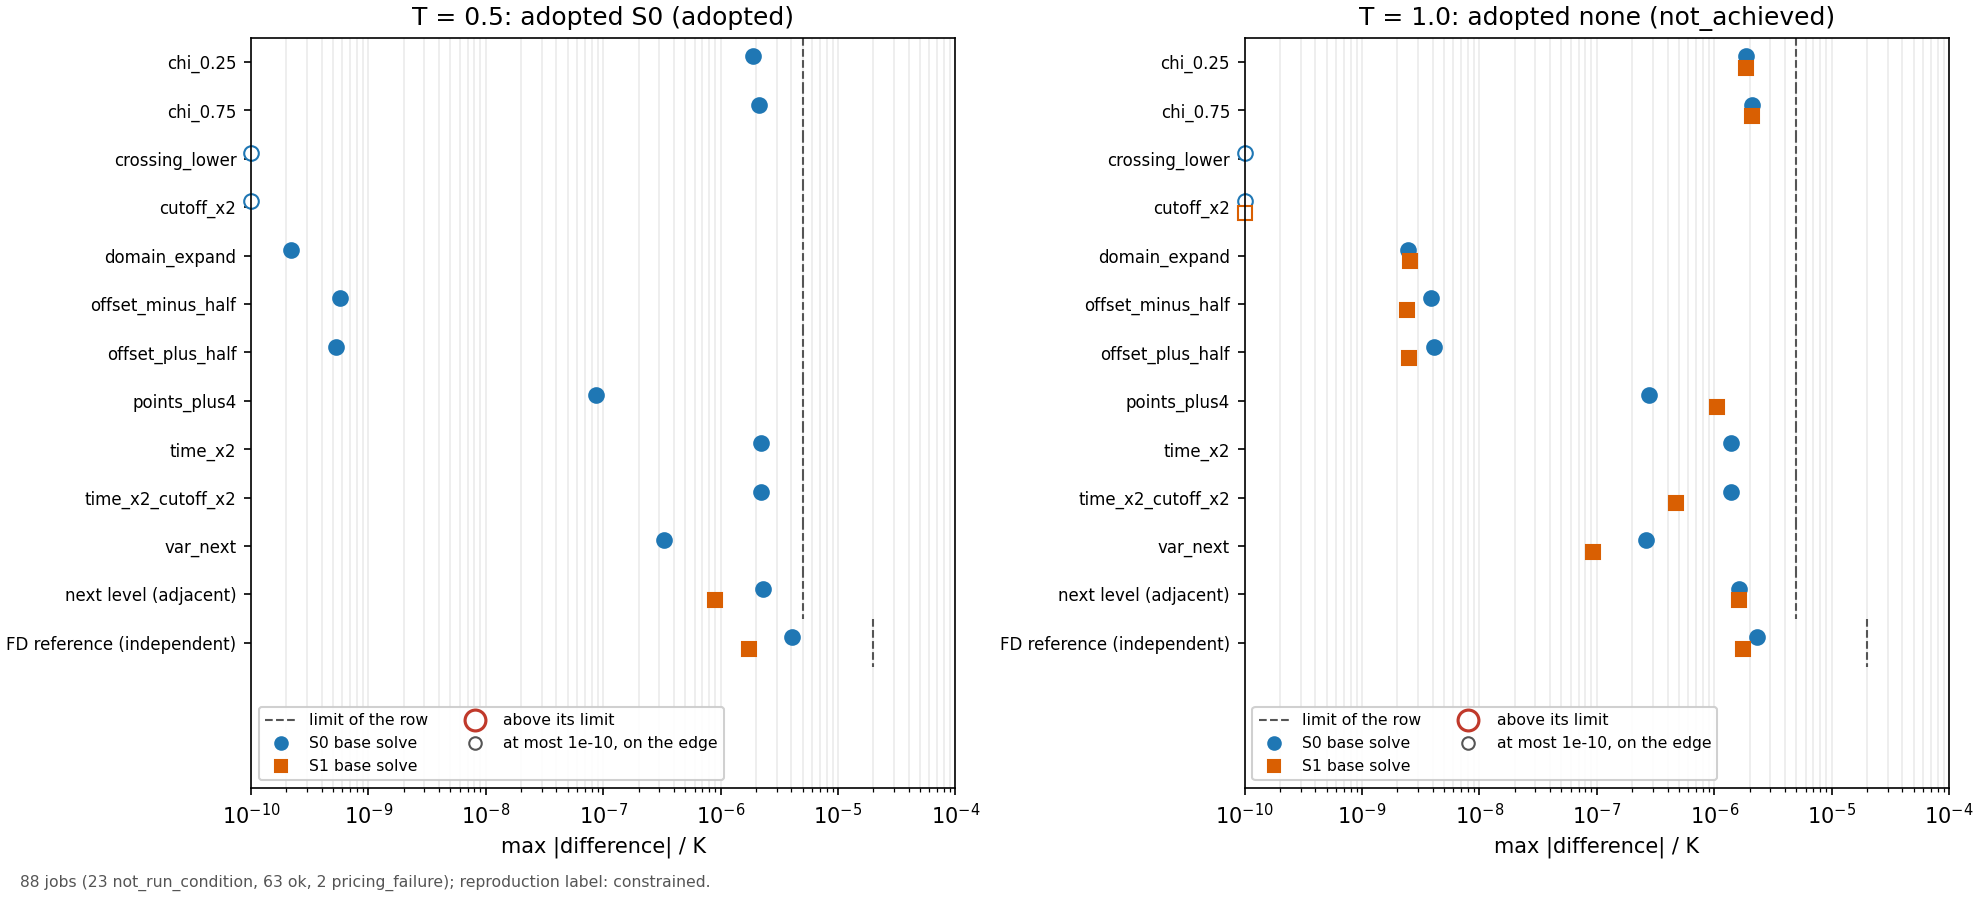
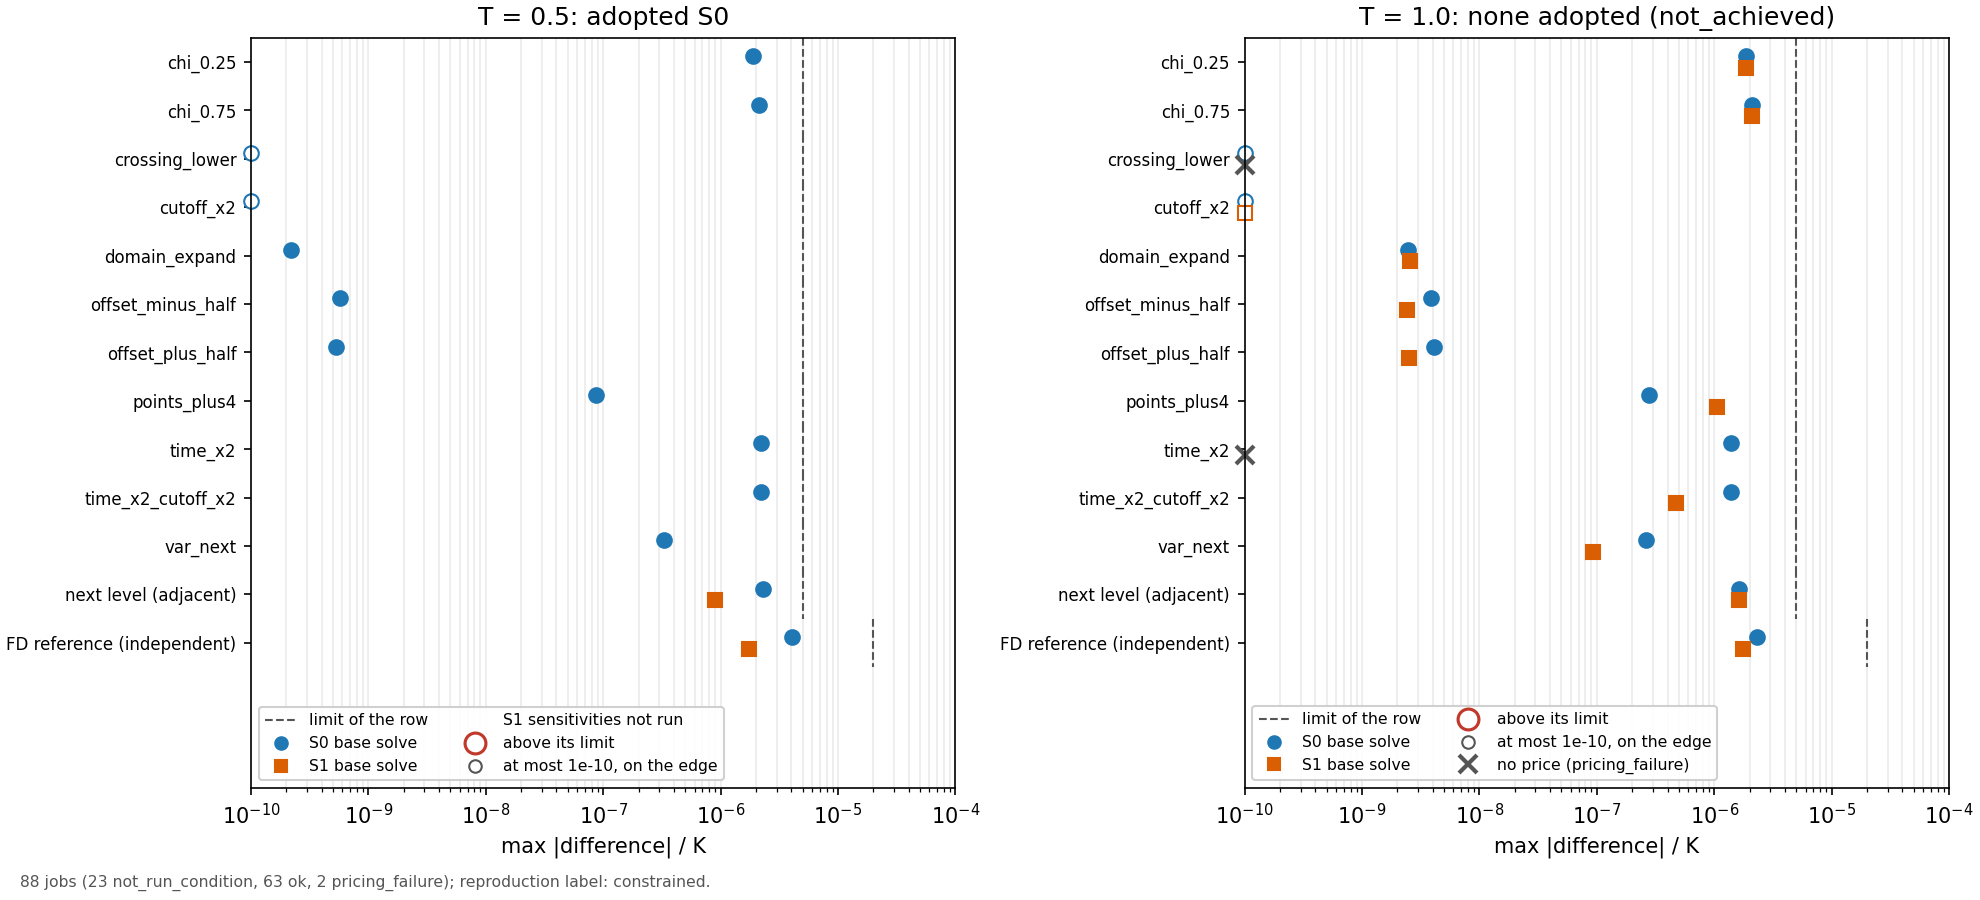
Correct the DSINC README numbers and label the figures
README: the spectral Delta width at S/K=.9 is 4.1e-7 (4.145e-7 from the
recorded Deltas, not 4.2e-7). Every printed number was compared again with
the digits it is printed with against results.json, the arrays, the
protocol, file sizes and test collections: 677 values, 0 mismatches.

- The job wall sum (781.8 s, accounting.wall_seconds) and the runner's
  elapsed time (783 s) are labelled wherever either appears; ROADMAP, plan
  and design carry the job wall sum.
- The wall/estimate ratio 0.37-0.87 covers the 63 ok jobs; the two failed
  jobs (0.28, 0.31) are given separately.
- T=1 is described from independent_validated (price false, boundary
  pass); the reproduction_label rule is the one in gates.reproduction_label.
- Which jobs return boundaries is stated: the ok spectral jobs and the FD
  boundary jobs, not the independent FD references; the two failed jobs
  keep only the boundary up to the failing step.
- The FD reference axes are listed as converged or below_resolution.
- S1's multiple crossings (3,371 and 6,491 nodes against S0's 58) are
  recorded next to the two S1 failures, which lie in the same low-variance
  region.
- One term (job) throughout; the subnormal-only timing is 5.4 s on
  re-measurement (was 5.4-5.6); the test count is 137.

plot.py: the boundary curves are labelled with the variance node that is
drawn (v = 0.0103, 0.0389, 0.1564); a sensitivity that ran without a price
is a grey cross at the left edge named with its job status, while
[…]

diff --git a/johnhull/research/DSINC/plot.py b/johnhull/research/DSINC/plot.py
@@ -7,7 +7,9 @@ Only ``results.json`` and the arrays it points to are read; nothing is solved or
 * ``exercise_boundary.png``: the exercise boundary of the judged spectral level against the FD
   bracket of the dedicated fine-time run, with the masked nodes and the failure counts.
 * ``refinement_stability.png``: the difference of every sensitivity, of the next level and of the
-  FD reference from a level's base solve, with the limits of the gates.
+  FD reference from a level's base solve, with the limits of the gates.  A check that ran but gave
+  no price is a grey cross on the left edge, named with its job status; sensitivities that were
+  not run have no marker and are named in the legend only.
 
 Usage: ``python plot.py --results RUN/results.json --output DIR``.
 """
@@ -23,11 +25,31 @@ import numpy as np
 from hullkit._dsinc_types import BOUNDARY_STATUS, FAILURE_CODES
 from matplotlib.backends.backend_agg import FigureCanvasAgg
 from matplotlib.figure import Figure
+from matplotlib.ticker import FuncFormatter, LogLocator, NullLocator
 
 BLUE, ORANGE, GREEN, RED, GRAY = "#1f77b4", "#d95f02", "#1b9e77", "#c0392b", "#555555"
 EXPIRY_COLORS = (BLUE, ORANGE)
-VARIANCE_COLORS = ((0.01, GREEN), (0.04, BLUE), (0.16, ORANGE))  # variances drawn in the boundary
+# Variances the boundary is drawn at: the grid node nearest to each value (the label gives the node).
+VARIANCE_COLORS = ((0.01, GREEN), (0.04, BLUE), (0.16, ORANGE))
 DISPLAY_FLOOR = 1e-10  # smaller differences are drawn on the left edge of the stability figure
+LOG_TICKS = (1.0, 2.0, 3.0, 5.0)  # labelled ticks of a log axis, times each power of ten
+NO_PRICE = {"color": GRAY, "ms": 9, "mew": 2}  # the grey cross of a check that gave no price
+
+
+def _tick_text(value: float, _position: int | None = None) -> str:
+    """A tick value without zero padding of the exponent: 0.5, 20, 2e-6."""
+    text = f"{value:g}"
+    if "e" in text:
+        mantissa, exponent = text.split("e")
+        text = f"{mantissa}e{int(exponent)}"
+    return text
+
+
+def _label_log_axis(axis) -> None:
+    """Label a log axis at 1, 2, 3 and 5 times each power of ten, so that values can be read off."""
+    axis.set_major_locator(LogLocator(base=10.0, subs=LOG_TICKS))
+    axis.set_minor_locator(NullLocator())
+    axis.set_major_formatter(FuncFormatter(_tick_text))
 
 
 def _new_figure(width: float, height: float) -> Figure:
@@ -126,7 +148,7 @@ def _price_error_cost(verdicts: dict, limits: dict) -> Figure:
         ax.text(
             0.005,
             limits[key],
-            f"{label} {limits[key]:g}",
+            f"{label} {_tick_text(limits[key])}",
             transform=ax.get_yaxis_transform(),
             ha="left",
             va="bottom",
@@ -135,10 +157,12 @@ def _price_error_cost(verdicts: dict, limits: dict) -> Figure:
         )
     ax.set_xscale("log")
     ax.set_yscale("log")
+    _label_log_axis(ax.xaxis)
+    _label_log_axis(ax.yaxis)
     ax.set_xlabel("solver time, setup + solve [s]")
     ax.set_ylabel("max |price - FD reference| / K   (European, American, EEP)")
     ax.set_title("Price error against cost at S/K = 0.9, 1.0, 1.1")
-    ax.grid(True, which="both", alpha=0.25)
+    ax.grid(True, which="major", alpha=0.25)
     if ax.get_legend_handles_labels()[0]:  # nothing is drawn when no error could be measured
         ax.legend(fontsize=8, loc="best")
     _footnote(figure, verdicts)
@@ -199,10 +223,12 @@ def _boundary_panel(
     multiple_label = "multiple crossings (topmost kept)"
     for v, color in VARIANCE_COLORS:
         column = int(np.argmin(np.abs(spectral_z - math.log(v))))
+        node = math.exp(float(spectral_z[column]))  # the grid node that is drawn, not v itself
         mine = star[:, column]
         fd_low = _edge_at_variance(edge, fd_z, float(spectral_z[column]))
         ax.fill_between(t_fd, np.exp(fd_low), np.exp(fd_low + dx), color=color, alpha=0.4, lw=0)
-        ax.plot(t_spec, np.exp(mine), color=color, lw=1.4, label=f"spectral, v = {v:g}")
+        label = f"spectral, v ≈ {node:.4f} (node nearest {v:g})"
+        ax.plot(t_spec, np.exp(mine), color=color, lw=1.4, label=label)
         fd_here, own = fd_low[common * n_fd // n_spec], mine[common]
         masked = (
             ~np.isfinite(fd_here)
@@ -301,6 +327,9 @@ def _refinement_stability(verdicts: dict, limits: dict) -> Figure:
         if value is not None
     ]
     right = max([1e-4, *(3 * value for value in values)])
+    statuses = {  # why a job that ran gave no price, by job id
+        entry["job_id"]: entry["status"] for entry in verdicts["accounting"].get("not_ok", [])
+    }
     for ax, (expiry, selection) in zip(axes, expiries, strict=True):
         for position, (_, kind) in enumerate(rows):  # one dashed line over the rows of a limit
             ax.plot(
@@ -311,6 +340,7 @@ def _refinement_stability(verdicts: dict, limits: dict) -> Figure:
                 lw=1,
                 label="limit of the row" if position == 0 else None,
             )
+        failed: dict[str, None] = {}  # why a check has no price, in order of appearance
         for level, marker, color, shift in (("S0", "o", BLUE, -0.12), ("S1", "s", ORANGE, 0.12)):
             check = selection["checks"][level]
             found = (check["sensitivities"] or {}) | {
@@ -318,9 +348,16 @@ def _refinement_stability(verdicts: dict, limits: dict) -> Figure:
                 "FD reference (independent)": check["independent"],
             }
             ax.plot([], [], marker, color=color, label=f"{level} base solve")
+            if not check["sensitivities"]:  # not run: nothing is drawn, only the legend says so
+                ax.plot([], [], " ", label=f"{level} sensitivities not run")
             for position, (name, kind) in enumerate(rows):
-                value = found.get(name)
-                if value is None:
+                if name not in found:
+                    continue
+                value = found[name]
+                if value is None:  # it ran but gave no price: a grey cross on the left edge
+                    status = statuses.get(f"spectral-{level}-{name}-T{expiry}")
+                    failed[f"no price ({status})" if status else "no value"] = None
+                    ax.plot([DISPLAY_FLOOR], [position + shift], "x", clip_on=False, **NO_PRICE)
                     continue
                 x, y = max(value, DISPLAY_FLOOR), position + shift
                 ax.plot(
@@ -336,13 +373,17 @@ def _refinement_stability(verdicts: dict, limits: dict) -> Figure:
                     ax.plot([x], [y], "o", mfc="none", mec=RED, ms=13, mew=1.5, clip_on=False)
         ax.plot([], [], "o", mfc="none", mec=RED, ms=10, mew=1.5, label="above its limit")
         ax.plot([], [], "o", mfc="white", mec=GRAY, label=f"at most {DISPLAY_FLOOR:g}, on the edge")
+        for text in failed:
+            ax.plot([], [], "x", label=text, **NO_PRICE)
         ax.set_xscale("log")
         ax.set_xlim(DISPLAY_FLOOR, right)
         ax.set_ylim(len(rows) + 2.0, -0.5)  # the empty rows below hold the legend
         ax.set_yticks(range(len(rows)), [name for name, _ in rows], fontsize=8)
         ax.set_xlabel("max |difference| / K")
-        adopted = selection["adopted"] or "none"
-        ax.set_title(f"T = {expiry}: adopted {adopted} ({selection['status']})")
+        if selection["adopted"]:
+            ax.set_title(f"T = {expiry}: adopted {selection['adopted']}")
+        else:
+            ax.set_title(f"T = {expiry}: none adopted ({selection['status']})")
         ax.grid(True, axis="x", which="both", alpha=0.25)
         ax.legend(fontsize=7.5, loc="lower left", ncol=2, framealpha=0.92)
     _footnote(figure, verdicts)
@@ -383,6 +424,7 @@ SENSITIVITIES = (
     "crossing_lower", "time_x2", "time_x2_cutoff_x2", "var_next", "points_plus4", "cutoff_x2",
     "chi_0.25", "chi_0.75", "domain_expand", "offset_plus_half", "offset_minus_half",
 )  # fmt: skip
+FAILED_SENSITIVITIES = ("crossing_lower", "time_x2")  # the S1 variants without a price at T = 1
 COSTS = (("S0", 3.9e-6, 3.8, 1.2), ("S1", 4.4e-6, 11.1, 6.7), ("S2", 4.9e-6, 29.8, 22.4))  # fmt: skip
 X_GRIDS = (("base", 8.0e-5, 0.2, 0.5), ("x481", 2.5e-5, 0.6, 1.4), ("x961", 7.0e-6, 1.4, 3.0), ("x1921", 1.5e-6, 3.1, 5.6))  # fmt: skip
 
@@ -434,8 +476,9 @@ def synthetic_results(tmp: Path) -> Path:
     """Write a minimal main ``results.json`` and its arrays under ``tmp`` and return its path.
 
     The numbers are made up (a square-root boundary, a few differences and times): they exercise
-    the figure code, with masked nodes, multiple crossings, a failing sensitivity and a pending
-    level, and say nothing about a real run.
+    the figure code, with masked nodes, multiple crossings, a sensitivity above its limit, two S1
+    variants that gave no price and S1 sensitivities that were not run, and say nothing about a
+    real run.
     """
     tmp = Path(tmp)
     (tmp / "arrays").mkdir(parents=True, exist_ok=True)
@@ -445,6 +488,10 @@ def synthetic_results(tmp: Path) -> Path:
         sensitivities |= {"crossing_lower": 0.0, "chi_0.75": 3e-6 * scale * scale}
         adopted = "S0" if scale == 1 else None
         key = str(expiry)
+        s1_sensitivities = None  # the S1 variants run only where S0 does not pass
+        if scale == 2:
+            s1_sensitivities = {n: 2e-6 * (i % 3 + 0.5) for i, n in enumerate(SENSITIVITIES)}
+            s1_sensitivities |= dict.fromkeys(FAILED_SENSITIVITIES)
         s0 = {
             "adjacent": 1.6e-6 * scale,
             "independent": 3.9e-6 * scale,
@@ -457,13 +504,13 @@ def synthetic_results(tmp: Path) -> Path:
             "adjacent": 6.0e-7,
             "independent": 4.4e-6,
             "sensitivity": None,
-            "sensitivities": None,
+            "sensitivities": s1_sensitivities,
             "passed": False,
-            "pending": scale == 2,
+            "pending": scale == 1,
         }
         verdicts["selections"][key] = {
             "adopted": adopted,
-            "status": "adopted" if adopted else "not_achieved_budget",
+            "status": "adopted" if adopted else "not_achieved",
             "checks": {"S0": s0, "S1": s1},
         }
         verdicts["costs"][key] = {
@@ -487,7 +534,18 @@ def synthetic_results(tmp: Path) -> Path:
         }
         verdicts["boundary"][key] = _synthetic_boundary(tmp, expiry, 3 * (scale - 1))
     verdicts |= {
-        "accounting": {"jobs": 88, "status_counts": {"ok": 58, "not_run_condition": 30}},
+        "accounting": {
+            "jobs": 88,
+            "status_counts": {"ok": 58, "not_run_condition": 28, "pricing_failure": 2},
+            "not_ok": [
+                {
+                    "job_id": f"spectral-S1-{name}-T1.0",
+                    "reason": "made up",
+                    "status": "pricing_failure",
+                }
+                for name in FAILED_SENSITIVITIES
+            ],
+        },
         "reproduction_label": "synthetic",
     }
     results = {

diff --git a/johnhull/hullkit/tests/test_dsinc_runner.py b/johnhull/hullkit/tests/test_dsinc_runner.py
@@ -354,6 +354,46 @@ def test_plot_draws_three_figures_from_saved_results(tmp_path):
     assert all(p.stat().st_size > 10_000 for p in paths)
 
 
+def test_stability_figure_tells_a_failed_check_from_sensitivities_not_run(tmp_path):
+    plot = load(PLOT, "dsinc_plot_labels_tests")
+    saved = json.loads(plot.synthetic_results(tmp_path).read_text())
+    figure = plot._refinement_stability(saved["verdicts"], saved["thresholds"])
+    left, right = figure.axes
+    legends = [[text.get_text() for text in ax.get_legend().get_texts()] for ax in (left, right)]
+    assert [left.get_title(), right.get_title()] == [
+        "T = 0.5: adopted S0",
+        "T = 1.0: none adopted (not_achieved)",
+    ]
+    assert "S1 sensitivities not run" in legends[0]  # not run: named in the legend, no marker
+    assert not any("no price" in text for text in legends[0])
+    assert "no price (pricing_failure)" in legends[1]  # ran without a price: a grey cross
+    assert not any("not run" in text for text in legends[1])
+    rows = [text.get_text() for text in right.get_yticklabels()]
+    crosses = [line for line in right.lines if line.get_marker() == "x" and len(line.get_xdata())]
+    assert sorted(line.get_ydata()[0] for line in crosses) == pytest.approx(
+        sorted(rows.index(name) + 0.12 for name in ("crossing_lower", "time_x2"))  # the S1 rows
+    )
+
+
+def test_boundary_and_cost_figures_label_what_they_draw(tmp_path):
+    plot = load(PLOT, "dsinc_plot_axes_tests")
+    saved = json.loads(plot.synthetic_results(tmp_path).read_text())
+    verdicts = saved["verdicts"]
+    figure = plot._exercise_boundary(verdicts, saved["thresholds"]["boundary"], tmp_path)
+    with np.load(tmp_path / verdicts["boundary"]["0.5"]["arrays"]["spectral"]) as stored:
+        z = stored["log_variances"]
+    wanted = [v for v, _ in plot.VARIANCE_COLORS]  # the nominal variances 0.01, 0.04, 0.16
+    nodes = [float(np.exp(z[np.argmin(np.abs(z - np.log(v)))])) for v in wanted]
+    labels = [text.get_text() for text in figure.axes[0].get_legend().get_texts()]
+    drawn = [float(s.split("≈")[1].split()[0]) for s in labels if s.startswith("spectral")]
+    assert drawn == pytest.approx(nodes, abs=5e-5)  # the grid node that is drawn ...
+    assert max(abs(n - v) for n, v in zip(nodes, wanted, strict=True)) > 1e-4  # ... is not v
+    cost = plot._price_error_cost(verdicts, saved["thresholds"]).axes[0]
+    for axis, (low, high) in ((cost.xaxis, cost.get_xlim()), (cost.yaxis, cost.get_ylim())):
+        ticks = [t for t in axis.get_majorticklocs() if low <= t <= high]
+        assert len(ticks) >= 4  # enough labelled ticks to read a value off a log axis
+
+
 def job_of(roster, method, level, variant, expiry):
     return next(
         j

diff --git a/johnhull/docs/superpowers/specs/2026-10-25-dsinc-american-design.md b/johnhull/docs/superpowers/specs/2026-10-25-dsinc-american-design.md
@@ -1,6 +1,6 @@
 # DSINCによるAmerican putの数値再現 — 設計
 
-更新日: 2026-10-27（JST）。状態: **実装中（branch `claude/dsinc-american`）。Task 1〜7完了。2026-10-26のpilotは判断点で止まり、D-6・D-7を2026-10-27に承認した。pilotは2026-10-27にやり直して通り（UTC 2026-10-26 23:53のrun）、freezeした。mainは2026-10-27に実行済み（88件、783秒。T=.5はS0を採用、T=1は採用段なし、reproduction_label=constrained）。次は独立レビュー**。Opus承認後、§5/§6に論文Table 3(b)/4の印刷値を照合対象として追加した（[レビュー記録](../reviews/2026-10-25-dsinc-american-opus.md)の「Opus承認後の追加照合と変更」）。2026-10-26、[実装計画](../plans/2026-10-25-dsinc-american.md)を完全版に改訂し、§4〜§6からの逸脱D-1〜D-5を提案した（計画の§1。根拠の実測もそちら）。D-1〜D-5は同日ユーザーが承認し、本文の§4〜§6へ反映した（計画のTask 1。反映箇所は「逸脱D-n」と明記）。改訂版のOpus再レビューはない。2026-10-26のpilotが判断点で止まった後、D-6（根を探す幅に予備の.5）とD-7（上下界を通らない段は採用しない）を2026-10-27にユーザーが承認し、§4の幅の規則と§6の段の選択へ反映した（計画のTask 7R。根拠は計画の§1）。
+更新日: 2026-10-27（JST）。状態: **実装中（branch `claude/dsinc-american`）。Task 1〜7完了。2026-10-26のpilotは判断点で止まり、D-6・D-7を2026-10-27に承認した。pilotは2026-10-27にやり直して通り（UTC 2026-10-26 23:53のrun）、freezeした。mainは2026-10-27に実行済み（88件、jobのwall合計781.8秒。T=.5はS0を採用、T=1は採用段なし、reproduction_label=constrained）。次は独立レビュー**。Opus承認後、§5/§6に論文Table 3(b)/4の印刷値を照合対象として追加した（[レビュー記録](../reviews/2026-10-25-dsinc-american-opus.md)の「Opus承認後の追加照合と変更」）。2026-10-26、[実装計画](../plans/2026-10-25-dsinc-american.md)を完全版に改訂し、§4〜§6からの逸脱D-1〜D-5を提案した（計画の§1。根拠の実測もそちら）。D-1〜D-5は同日ユーザーが承認し、本文の§4〜§6へ反映した（計画のTask 1。反映箇所は「逸脱D-n」と明記）。改訂版のOpus再レビューはない。2026-10-26のpilotが判断点で止まった後、D-6（根を探す幅に予備の.5）とD-7（上下界を通らない段は採用しない）を2026-10-27にユーザーが承認し、§4の幅の規則と§6の段の選択へ反映した（計画のTask 7R。根拠は計画の§1）。
 
 ## 1. 目的と承認範囲
 

diff --git a/johnhull/docs/superpowers/plans/2026-10-25-dsinc-american.md b/johnhull/docs/superpowers/plans/2026-10-25-dsinc-american.md
@@ -10,7 +10,7 @@
 
 **Spec:** [2026-10-25-dsinc-american-design.md](../specs/2026-10-25-dsinc-american-design.md)。本計画は設計からの逸脱D-1〜D-7を記録する（§1。D-6・D-7はpilotが判断点で止まった後に追加した）。
 
-**状態（2026-10-27）:** 計画を2026-10-26に全面改訂した。旧版は概要版で、Opus承認時のsha256は677bfdb2…、承認後の追記版は2ba13c82…。D-1〜D-5は2026-10-26にユーザーが承認した（改訂版のOpus再レビューなし）。設計本文への反映はTask 1で行った。実装は2026-10-26に始まり、Task 1〜6は完了した。Task 7のpilotは2026-10-26に判断点で止まった（`mandatory_jobs_ok`だけが落ち、S0のdomain_expandが根のbracket幅の外で`missing_sign_change`になった。S0のT=1ではboundsも不合格）。ユーザーは2026-10-27にD-6・D-7を承認し、実装した（Task 7R）。pilotは2026-10-27にやり直して通り（UTC 2026-10-26 23:53のrun、42件すべてok）、mainのprotocolをfreezeした（Task 7は完了）。mainは2026-10-27に実行した（88件、783秒。T=.5はS0を採用、T=1は採用段なし、`reproduction_label`は`constrained`）。次は独立レビュー（Task 8のStep 6）。実行方法はsubagent-driven。[レビュー記録](../reviews/2026-10-25-dsinc-american-opus.md)。
+**状態（2026-10-27）:** 計画を2026-10-26に全面改訂した。旧版は概要版で、Opus承認時のsha256は677bfdb2…、承認後の追記版は2ba13c82…。D-1〜D-5は2026-10-26にユーザーが承認した（改訂版のOpus再レビューなし）。設計本文への反映はTask 1で行った。実装は2026-10-26に始まり、Task 1〜6は完了した。Task 7のpilotは2026-10-26に判断点で止まった（`mandatory_jobs_ok`だけが落ち、S0のdomain_expandが根のbracket幅の外で`missing_sign_change`になった。S0のT=1ではboundsも不合格）。ユーザーは2026-10-27にD-6・D-7を承認し、実装した（Task 7R）。pilotは2026-10-27にやり直して通り（UTC 2026-10-26 23:53のrun、42件すべてok）、mainのprotocolをfreezeした（Task 7は完了）。mainは2026-10-27に実行した（88件、jobのwall合計781.8秒。T=.5はS0を採用、T=1は採用段なし、`reproduction_label`は`constrained`）。次は独立レビュー（Task 8のStep 6）。実行方法はsubagent-driven。[レビュー記録](../reviews/2026-10-25-dsinc-american-opus.md)。
 
 ## 0. 計画前に確かめたこと
 
